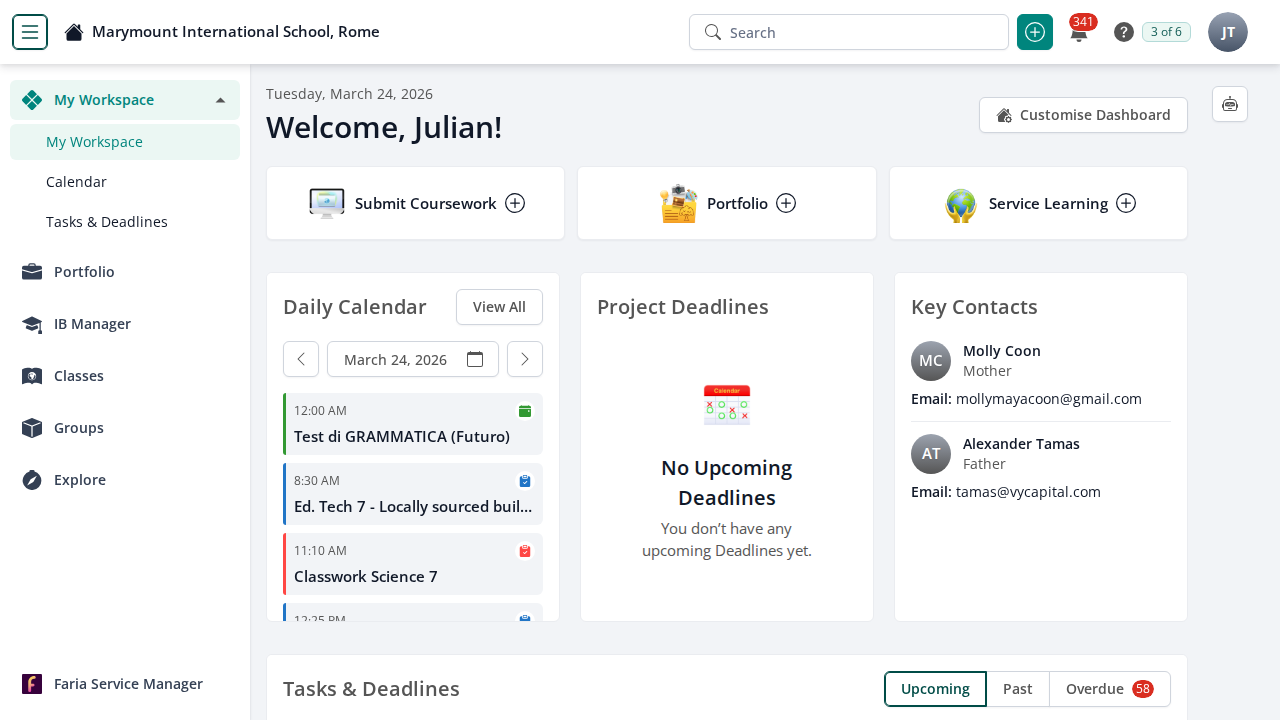
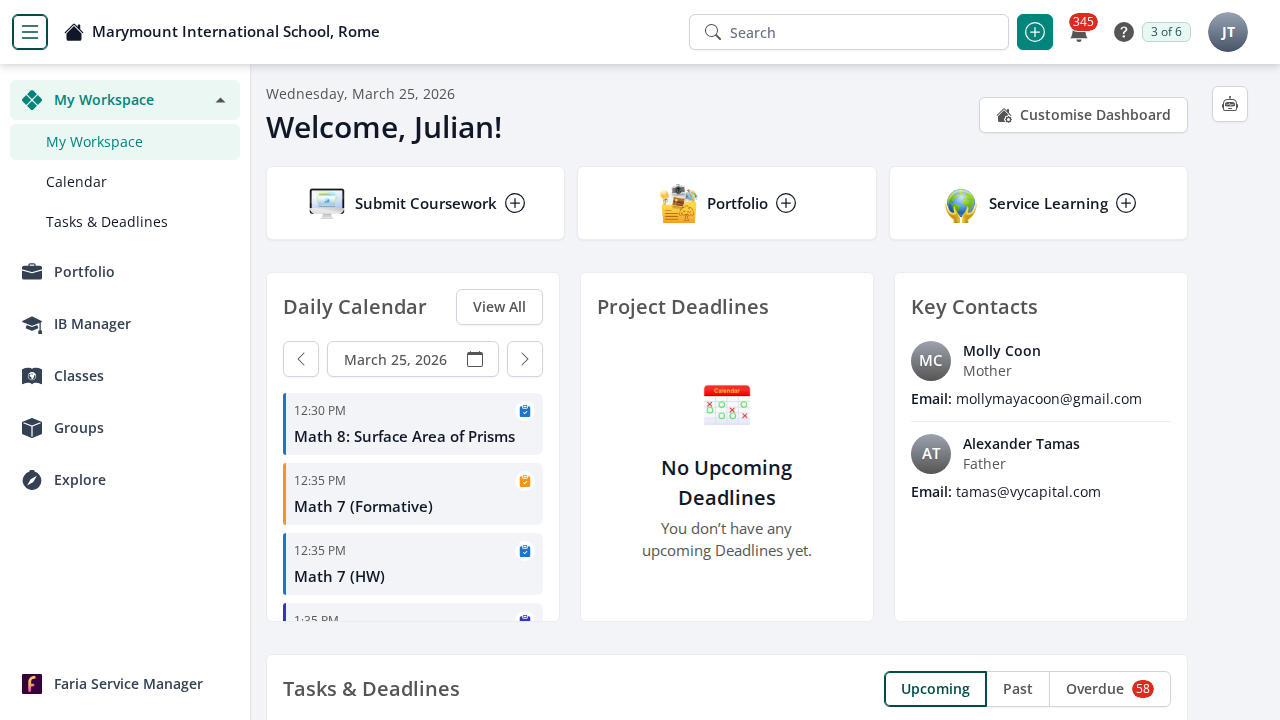
Add essay: The Lights Go Out: The Bronze Age Collapse and What It Teach

diff --git a/essays/2026-03-26-the-lights-go-out-the-bronze-age-collapse-and-what-it-teache.html b/essays/2026-03-26-the-lights-go-out-the-bronze-age-collapse-and-what-it-teache.html
@@ -1,0 +1,73 @@
+<!DOCTYPE html>
+<html lang="en">
+<head>
+  <meta charset="UTF-8" />
+  <meta name="viewport" content="width=device-width, initial-scale=1.0" />
+  <title>The Lights Go Out: The Bronze Age Collapse and What It Teaches About Systemic Fragility — Rupert Web</title>
+  <link rel="preconnect" href="https://fonts.googleapis.com" />
+  <link rel="preconnect" href="https://fonts.gstatic.com" crossorigin />
+  <link href="https://fonts.googleapis.com/css2?family=Space+Grotesk:wght@300;400;500;600;700&family=Space+Mono:wght@400;700&display=swap" rel="stylesheet" />
+  <link rel="stylesheet" href="../style.css" />
+  <style>
+    .essay-page { max-width: 720px; margin: 0 auto; padding: 4rem 2rem; }
+    .essay-back { font-family: 'Space Mono', monospace; font-size: 0.75rem; color: var(--accent); text-decoration: none; letter-spacing: 0.1em; text-transform: uppercase; display: inline-block; margin-bottom: 3rem; }
+    .essay-back:hover { text-decoration: underline; }
+    .essay-meta { display: flex; gap: 1rem; align-items: center; margin-bottom: 2rem; }
+    .essay-tag { font-family: 'Space Mono', monospace; font-size: 0.7rem; padding: 0.25rem 0.6rem; border: 1px solid var(--accent); color: var(--accent); text-transform: uppercase; letter-spacing: 0.1em; }
+    .essay-date { font-family: 'Space Mono', monospace; font-size: 0.75rem; color: var(--muted); }
+    .essay-title { font-size: clamp(1.8rem, 4vw, 2.8rem); font-weight: 700; line-height: 1.15; margin-bottom: 3rem; }
+    .essay-body { font-size: 1.05rem; line-height: 1.8; color: #ccc; }
+    .essay-body p { margin-bottom: 1.5rem; }
+    .essay-body strong { color: #fff; }
+    .essay-body em { color: #bbb; }
+    .essay-body h3 { color: #fff; font-size: 1.1rem; margin: 2rem 0 0.75rem; }
+    .essay-sources { margin-top: 3rem; padding-top: 2rem; border-top: 1px solid #222; }
+    .essay-sources h3 { font-family: 'Space Mono', monospace; font-size: 0.8rem; text-transform: uppercase; letter-spacing: 0.1em; color: var(--accent); margin-bottom: 1rem; }
+    .essay-sources ul { list-style: none; padding: 0; }
+    .essay-sources li { font-size: 0.85rem; color: var(--muted); margin-bottom: 0.5rem; padding-left: 1rem; border-left: 2px solid #333; }
+  </style>
+</head>
+<body>
+  <header class="site-header">
+    <div class="header-left">
+      <span class="site-title">RUPERT WEB</span>
+      <span class="header-sep">/</span>
+      <span class="user-name">Julian Tamas</span>
+    </div>
+    <div class="header-right">
+      <span class="clock" id="clock"></span>
+    </div>
+  </header>
+  <div class="essay-page">
+    <a href="../index.html" class="essay-back">← Back to dashboard</a>
+    <div class="essay-meta">
+      <span class="essay-tag">History</span>
+      <span class="essay-date">26 March 2026</span>
+    </div>
+    <h1 class="essay-title">The Lights Go Out: The Bronze Age Collapse and What It Teaches About Systemic Fragility</h1>
+    <div class="essay-body"><p>The Lights Go Out: The Bronze Age Collapse and What It Teaches About Systemic Fragility</p>
+<p>Around 1200 BC, within the span of roughly fifty years, almost every major civilization in the Eastern Mediterranean ceased to exist. The Hittite Empire — which had fought Egypt to a standstill at Kadesh and negotiated the oldest known peace treaty in history — vanished so completely that its very existence was forgotten for three thousand years. Mycenaean Greece, the world of Agamemnon and the palace economies that supplied Homer's heroes, collapsed so thoroughly that literacy itself disappeared from Greece for four centuries. Ugarit, one of the most cosmopolitan port cities in the ancient world, was burned and never rebuilt. The palace of Pylos was destroyed while its scribes were apparently still writing warning tablets about a threat from the sea. Cyprus, Egypt, and the Levant were hit. Trading networks that had connected tin mines in Afghanistan to copper works in Cyprus to gold in Egypt — a genuinely global economy in miniature — stopped functioning almost overnight.</p>
+<p>This is arguably the single greatest civilizational collapse in human history, larger in scope than Rome's fall, and it happened so fast and so completely that historians spent the better part of the twentieth century arguing about who did it. The answer, it now appears, is that nobody did it — at least not in any simple causal sense. And that is the lesson worth sitting with.</p>
+<p>For decades, the standard explanation pointed to the "Sea Peoples," mysterious raiders who appear in Egyptian reliefs attacking from the north. Pharaoh Ramesses III claimed to have defeated them around 1177 BC in a famous naval battle at the Nile delta. The Sea Peoples were convenient villains — external, violent, disruptive. But this explanation has always been unsatisfying. The Egyptians repelled them. Yet Egypt still contracted massively, never recovering its New Kingdom power. And the Sea Peoples were not the invaders; they were largely refugees — displaced populations fleeing the same collapse they were supposedly causing, much like the people crossing the Mediterranean today are fleeing war rather than conducting it.</p>
+<p>The scholar Eric Cline, in his 2014 book <em>1177 B.C.: The Year Civilization Collapsed</em>, makes the more convincing argument: the Bronze Age Collapse was a systems collapse, not a military defeat. The Late Bronze Age world had become extraordinarily interconnected and consequently extraordinarily fragile. Palace economies across the region depended on continuous flows of rare materials — tin from far Afghanistan, copper from Cyprus, grain from Egypt, luxury goods from everywhere. None of these states was self-sufficient; they were nodes in a network. When multiple stresses hit simultaneously — drought (confirmed by palaeoclimatic data), crop failures, internal rebellions, disruption of trade routes, earthquakes (several major cities show destruction layers consistent with seismic events) — the network could not absorb the shock. One failure cascaded into the next. The Hittites could no longer receive Egyptian grain; the Mycenaeans could no longer get copper and tin; the craftsmen stopped working; the armies stopped being paid; the kingdoms lost legitimacy; the palace bureaucracies, which had maintained writing and record-keeping, dissolved. And when the palaces went, so did literacy.</p>
+<p>What makes this historically arresting is that it was not caused by stupidity, weakness, or decadence in any obvious moral sense. These were sophisticated states with professional armies, extensive diplomatic correspondence, complex economies. The Ugaritic king received a letter from Cyprus warning of famine and ships sighted offshore. He wrote back that his troops were away, his ships deployed elsewhere, and he had no grain to send. He was, by any reasonable measure, managing a crisis thoughtfully. It did not matter. The letter was found undelivered in a kiln at Ugarit, fired by the same conflagration that ended the city.</p>
+<p>The lesson that tends to go unlearned is this: complexity is not strength. The more interconnected and specialized a system becomes, the more efficient it is under normal conditions and the more catastrophically it fails under abnormal ones. The Bronze Age world had achieved something genuinely remarkable — a trading network spanning thousands of miles, written diplomacy, international law of a primitive kind, peaceful exchange between kingdoms of very different cultures. It also created a fragility so profound that no single king, however competent, could prevent collapse when the right combination of stresses arrived simultaneously.</p>
+<p>This is not an abstract lesson. Modern supply chains are the Bronze Age Phoenician network at planetary scale. The semiconductor shortage triggered by COVID-19 — a single disruption that cascaded into automotive shortfalls, consumer electronics delays, and military procurement problems — is a small-scale demonstration of the same dynamic. The difference is that after a modern supply chain shock, the knowledge is retained, the cities are not burned, and recovery is measured in months. After 1200 BC, the lights went out for centuries. The Greeks who eventually built Athens had no idea what the Mycenaeans were. They thought the enormous stones of Mycenae's walls must have been built by giants.</p>
+<p>That forgetting — the complete rupture of continuity — is perhaps the most unsettling aspect of the collapse. We assume knowledge accumulates, that civilization is a ratchet that only turns one way. The Bronze Age says otherwise. Under the right conditions, you can lose everything, including the memory that you had it.</p></div>
+    <div class="essay-sources"><h3>Sources</h3><ul><li>Cline, Eric H. <em>1177 B.C.: The Year Civilization Collapsed</em>. Princeton University Press, 2014.</li>
+<li>Kaniewski, D. et al. "Environmental Roots of the Late Bronze Age Crisis." <em>PLOS ONE</em>, 2013.</li>
+<li>Drews, Robert. <em>The End of the Bronze Age: Changes in Warfare and the Catastrophe ca. 1200 B.C.</em> Princeton University Press, 1993.</li>
+<li>Middleton, Guy D. <em>Understanding Collapse: Ancient History and Modern Myths</em>. Cambridge University Press, 2017.</li>
+<li>Broodbank, Cyprian. <em>The Making of the Middle Sea</em>. Thames & Hudson, 2013.</li>
+<li>Nur, Amos, and Dawn Burgess. <em>Apocalypse: Earthquakes, Archaeology, and the Wrath of God</em>. Princeton University Press, 2008.</li></ul></div>
+  </div>
+  <script>
+    function updateClock() {
+      const now = new Date();
+      document.getElementById('clock').textContent =
+        String(now.getHours()).padStart(2,'0')+':'+String(now.getMinutes()).padStart(2,'0')+':'+String(now.getSeconds()).padStart(2,'0');
+    }
+    updateClock(); setInterval(updateClock, 1000);
+  </script>
+</body>
+</html>

diff --git a/main.js b/main.js
@@ -28,6 +28,13 @@ setInterval(updateClock, 1000);
    ══════════════════════════════════════════════════════════════ */
 const ESSAYS = [
   {
+    title: "The Lights Go Out: The Bronze Age Collapse and What It Teaches About Systemic Fragility",
+    date: "2026-03-26",
+    category: "History",
+    excerpt: "Around 1200 BC, within the span of roughly fifty years, almost every major civilization in the Eastern Mediterranean ceased to exist. The Hittite Empire — which had fought Egypt to a standstill at Kadesh and negotiated the oldest known peace treaty i...",
+    url: "essays/2026-03-26-the-lights-go-out-the-bronze-age-collapse-and-what-it-teache.html"
+  },
+  {
     title: "The Ransom of Haiti: How a Nation Paid for Its Own Freedom",
     date: "2026-03-25",
     category: "History",
@@ -64,20 +71,28 @@ const ESSAYS = [
    Fields: subject, title, due (YYYY-MM-DD), status ('pending'|'done')
    ══════════════════════════════════════════════════════════════ */
 const SCHOOL_TASKS = [
-  // Last updated: 2026-03-24 via ManageBac scraper
-  // --- Today (Tue Mar 24) ---
-  { subject: "Italian", title: "Test di GRAMMATICA (Futuro)", due: "2026-03-24", time: "All Day", status: "pending", type: "Test" },
+  // Last updated: 2026-03-25 via ManageBac scraper
+  // --- Past (Mon Mar 23) ---
+  { subject: "Math 8", title: "Math 8: Apothem Exercises", due: "2026-03-23", time: "8:30 AM", status: "done", type: "Homework" },
+  { subject: "English 7", title: "Eng 7 hw", due: "2026-03-23", time: "9:00 AM", status: "done", type: "Homework" },
+  { subject: "Science 7", title: "Classwork Science 7", due: "2026-03-23", time: "10:30 AM", status: "done", type: "Class work" },
+  { subject: "Science 7", title: "HW Science 7", due: "2026-03-23", time: "11:35 AM", status: "done", type: "Homework" },
+  { subject: "History 7", title: "Classical period worksheet", due: "2026-03-23", time: "12:45 PM", status: "done", type: "Homework" },
+  // --- Past (Tue Mar 24) ---
+  { subject: "Italian", title: "Test di GRAMMATICA (Futuro)", due: "2026-03-24", time: "All Day", status: "done", type: "Test" },
   { subject: "Ed. Technology 7", title: "Ed. Tech 7 - Locally sourced building materials", due: "2026-03-24", time: "8:30 AM", status: "done", type: "Homework" },
-  { subject: "Science 7", title: "Classwork Science 7", due: "2026-03-24", time: "11:10 AM", status: "pending", type: "Class work" },
-  { subject: "Rel Ed 7", title: "Jesus at the Temple and Passover Meal", due: "2026-03-24", time: "12:25 PM", status: "pending", type: "Homework" },
-  { subject: "General Music 7", title: "Ukulele Assessment", due: "2026-03-24", time: "1:35 PM", status: "pending", type: "Performance/Assessment" },
-  // --- Wed Mar 25 ---
+  { subject: "Science 7", title: "Classwork Science 7", due: "2026-03-24", time: "11:10 AM", status: "done", type: "Class work" },
+  { subject: "Rel Ed 7", title: "Jesus at the Temple and Passover Meal", due: "2026-03-24", time: "12:25 PM", status: "done", type: "Homework" },
+  { subject: "German 7", title: "Cover Work - Dative Case Practice", due: "2026-03-24", time: "12:35 PM", status: "done", type: "Homework" },
+  // --- Today (Wed Mar 25) ---
   { subject: "Math 8", title: "Math 8: Surface Area of Prisms", due: "2026-03-25", time: "12:30 PM", status: "pending", type: "Homework" },
   { subject: "Math 7", title: "Math 7 (Formative)", due: "2026-03-25", time: "12:35 PM", status: "pending", type: "Quiz" },
   { subject: "Math 7", title: "Math 7 (HW)", due: "2026-03-25", time: "12:35 PM", status: "pending", type: "Homework" },
+  { subject: "Ed. Technology 7", title: "Ed. Tech 7 - Classroom Pods", due: "2026-03-25", time: "1:35 PM", status: "pending", type: "Presentations/Classwork" },
   { subject: "Art 7", title: "RENAISSANCE PRESENTATIONS FIRST GROUPS", due: "2026-03-25", time: "2:30 PM", status: "pending", type: "Paper" },
   // --- Thu Mar 26 ---
   { subject: "English 7", title: "Eng 7 hw", due: "2026-03-26", time: "9:00 AM", status: "pending", type: "Homework" },
+  { subject: "General Music 7", title: "Ukulele Assessment", due: "2026-03-26", time: "12:35 PM", status: "pending", type: "Performance/Assessment" },
   // --- Fri Mar 27 ---
   { subject: "History 7", title: "Age of Exploration Summative Assessment", due: "2026-03-27", time: "11:20 AM", status: "pending", type: "Summative" },
   { subject: "Art 7", title: "RENAISSANCE PRESENTATIONS SECOND GROUPS", due: "2026-03-27", time: "2:30 PM", status: "pending", type: "Presentation" },
